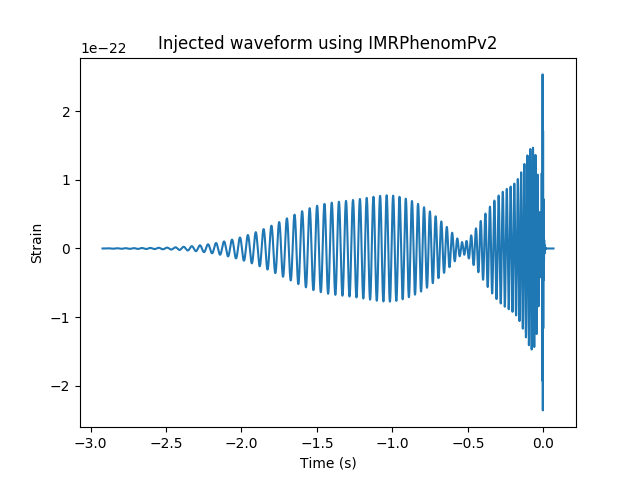
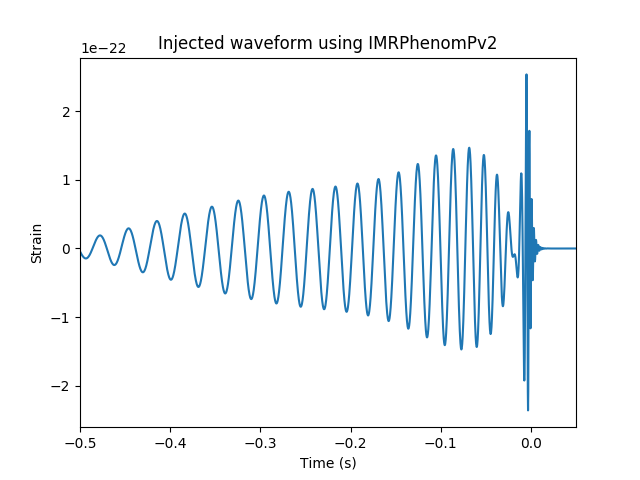
Smaller timestep

diff --git a/Inference/whitened.py b/Inference/whitened.py
@@ -86,7 +86,7 @@ for ifo in ['H1', 'L1']:
         gps_time = sargs['tc']
     except KeyError:
         gps_time = map_values['tc']
-    xmin = -1. 
+    xmin = -0.5 
     xmax = 0.05
 
     # whitened strain
